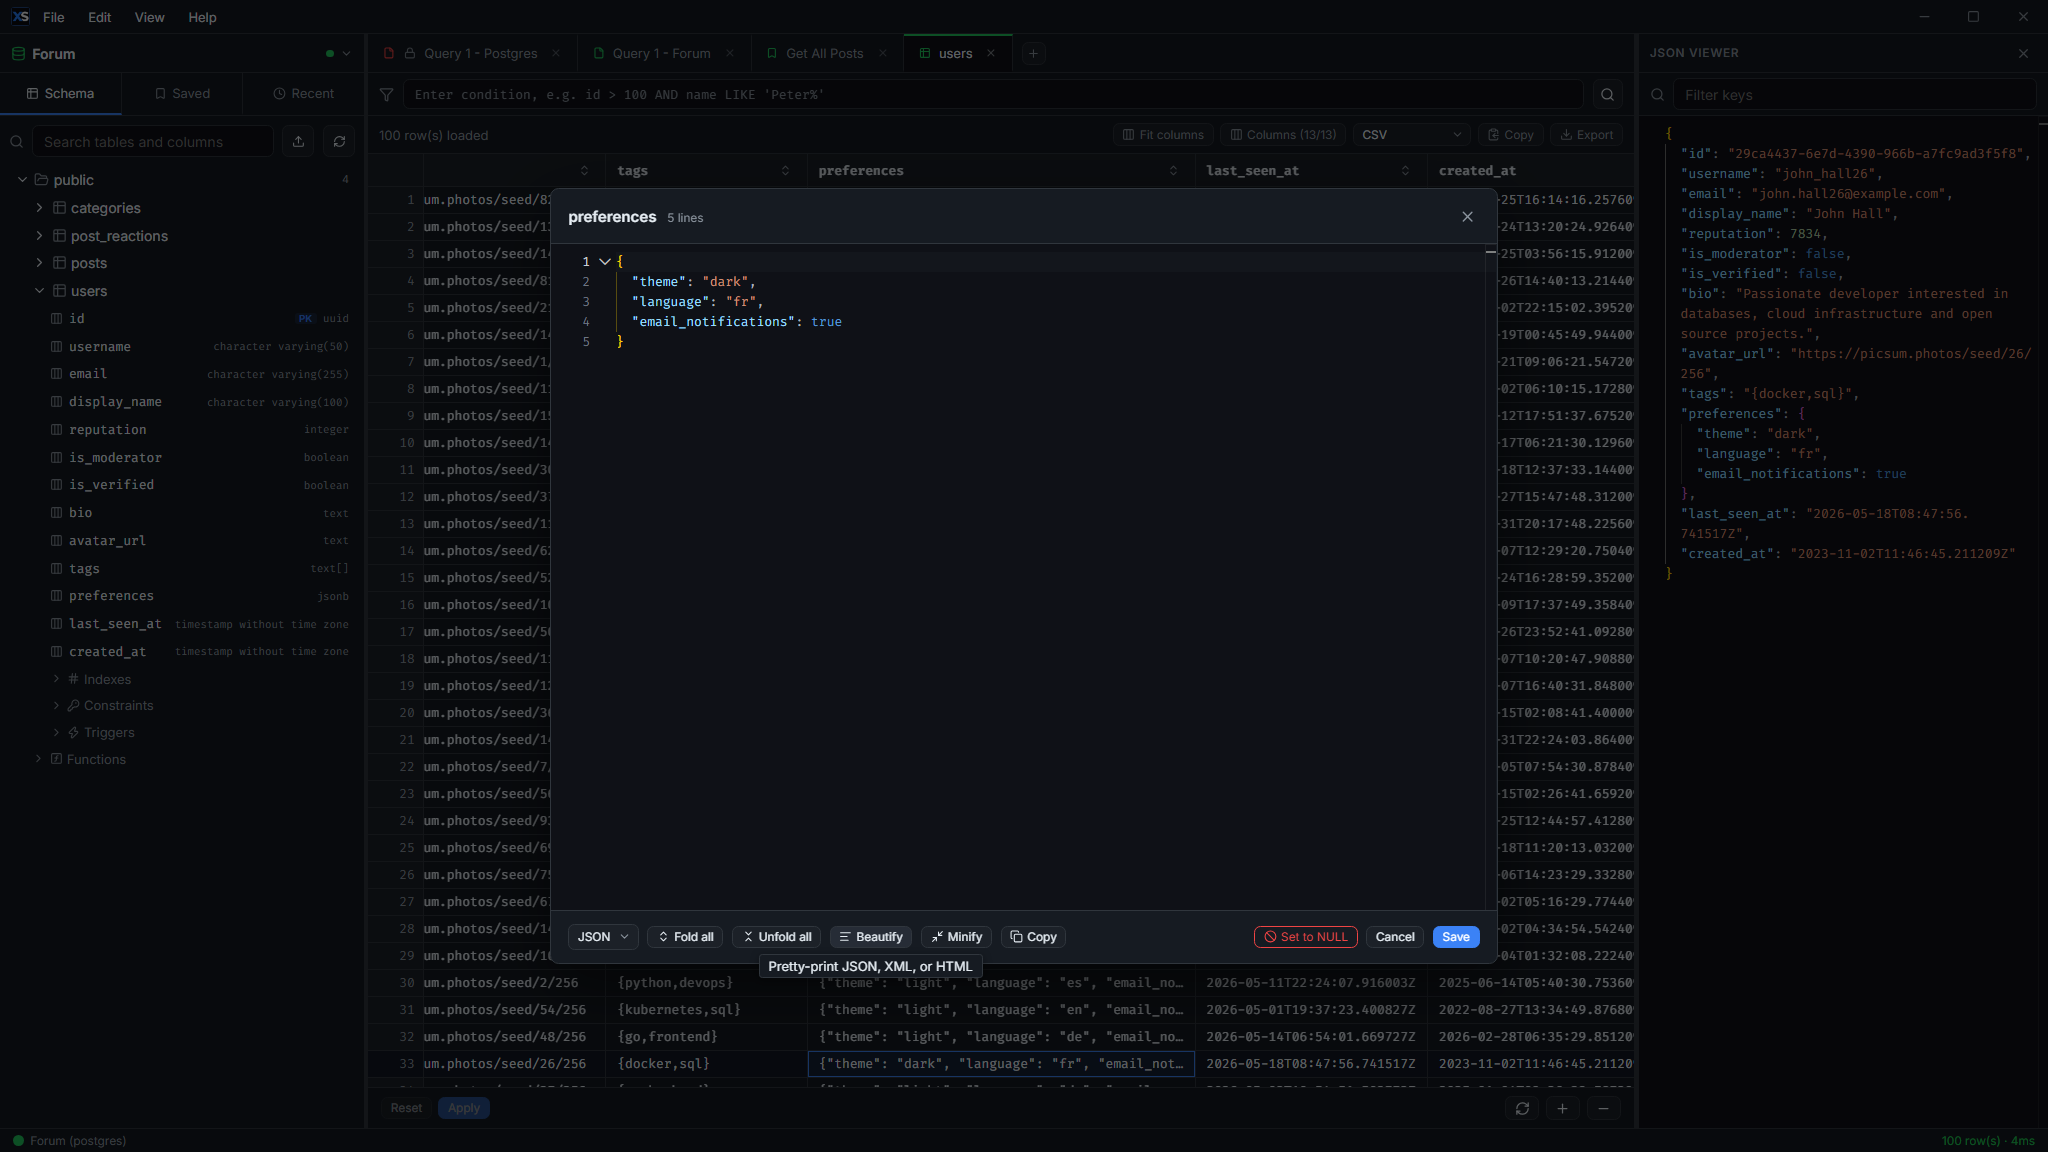
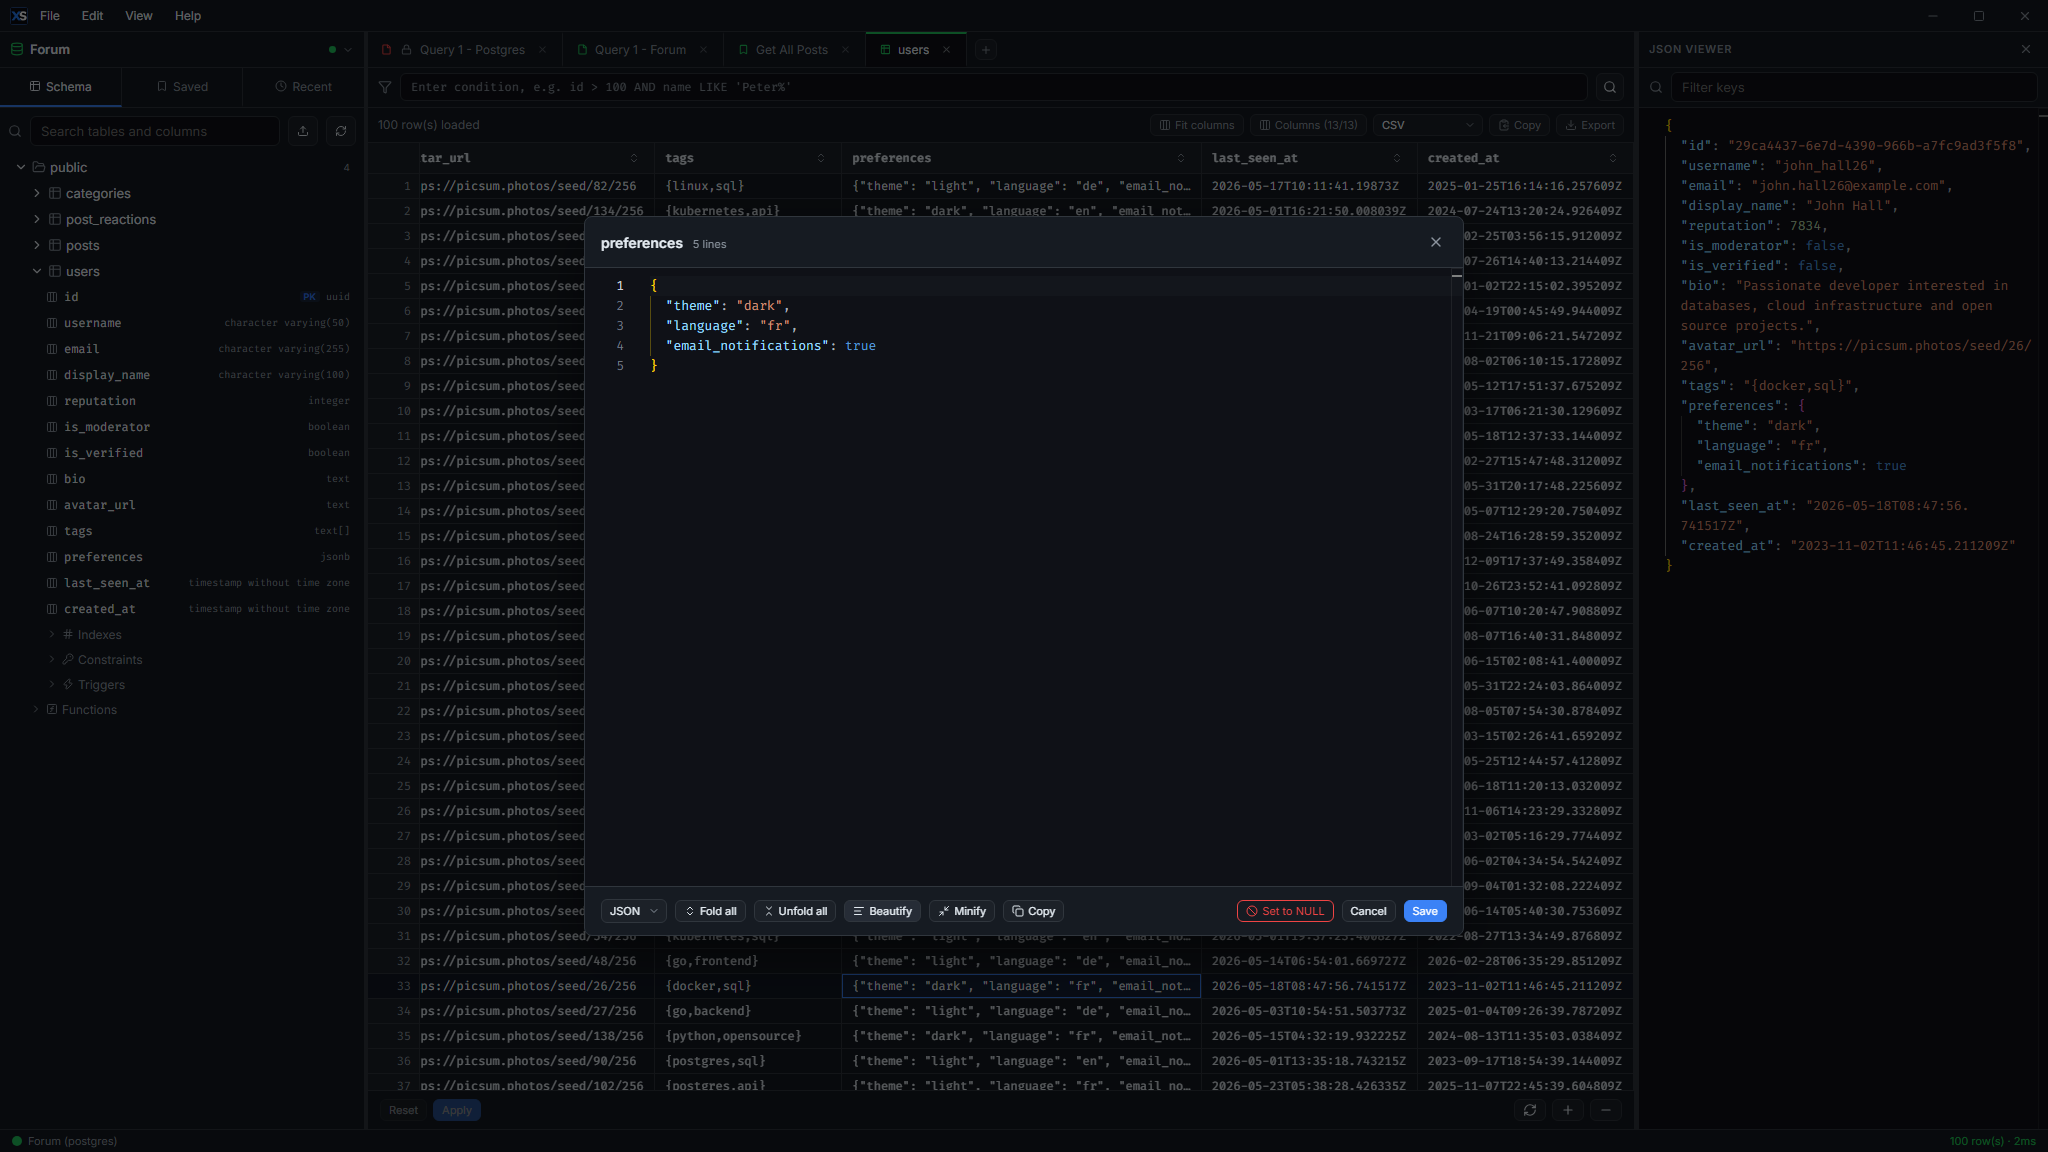
Updated screenshots

diff --git a/e2e/screenshots/readme.spec.ts b/e2e/screenshots/readme.spec.ts
@@ -258,7 +258,9 @@ test.describe('README screenshots', () => {
     await ensureUsersExpanded(schema);
     await jsonViewer.open();
     await applyDemoPanelWidths(page);
-    await applyDemoZoom(page);
+
+    // Intentionally Disabled
+    // await applyDemoZoom(page);
 
     // Sanity: tab colors / order
     await expect(page.locator('.editor-tab').nth(0).locator('.tab-title')).toHaveText('Query 1 - Postgres');
@@ -439,8 +441,7 @@ test.describe('README screenshots', () => {
     if ((await themeSwitch.getAttribute('aria-checked')) === 'true') {
       await themeSwitch.click();
     }
-    // Already at 108% from applyDemoZoom — show that value in the View menu.
-    await expect(page.getByText('108%', { exact: true })).toBeVisible();
+
     await capture(page, '9.png');
   });
 });
